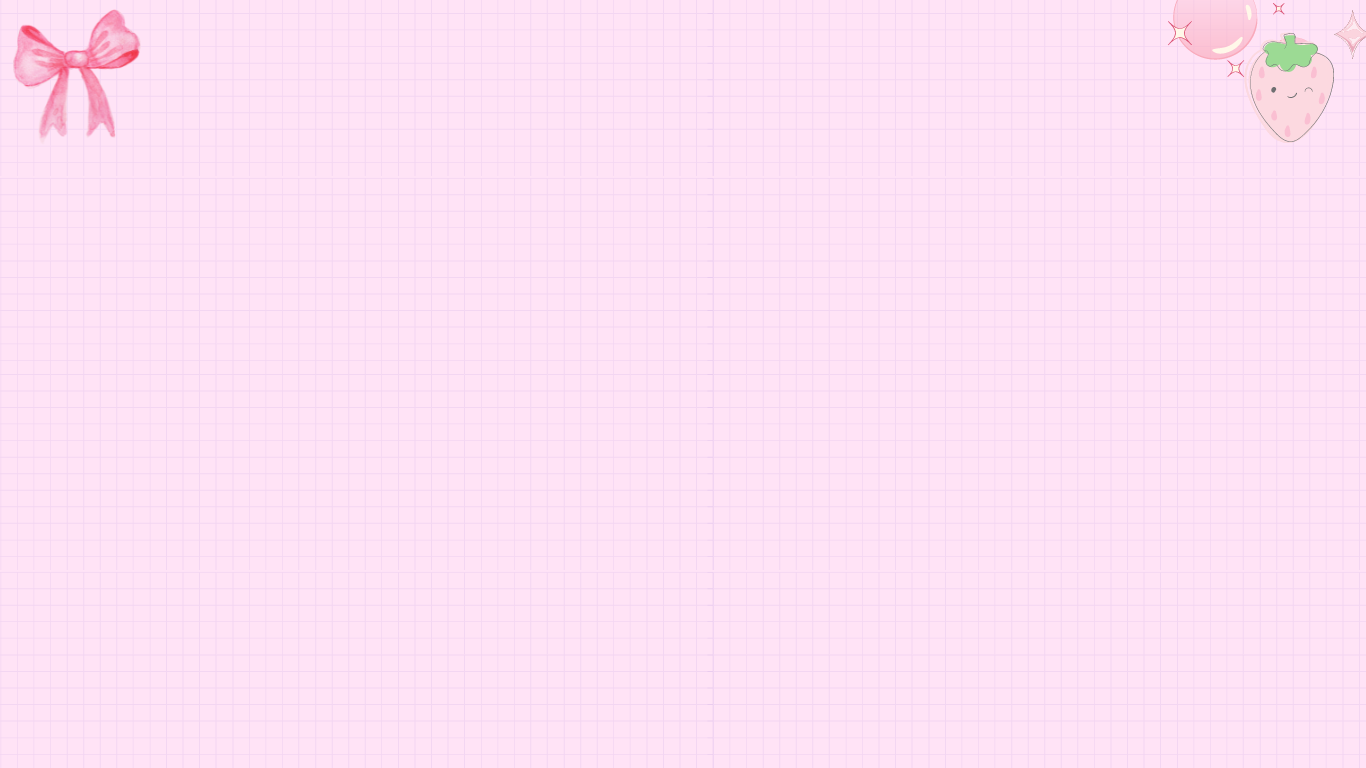
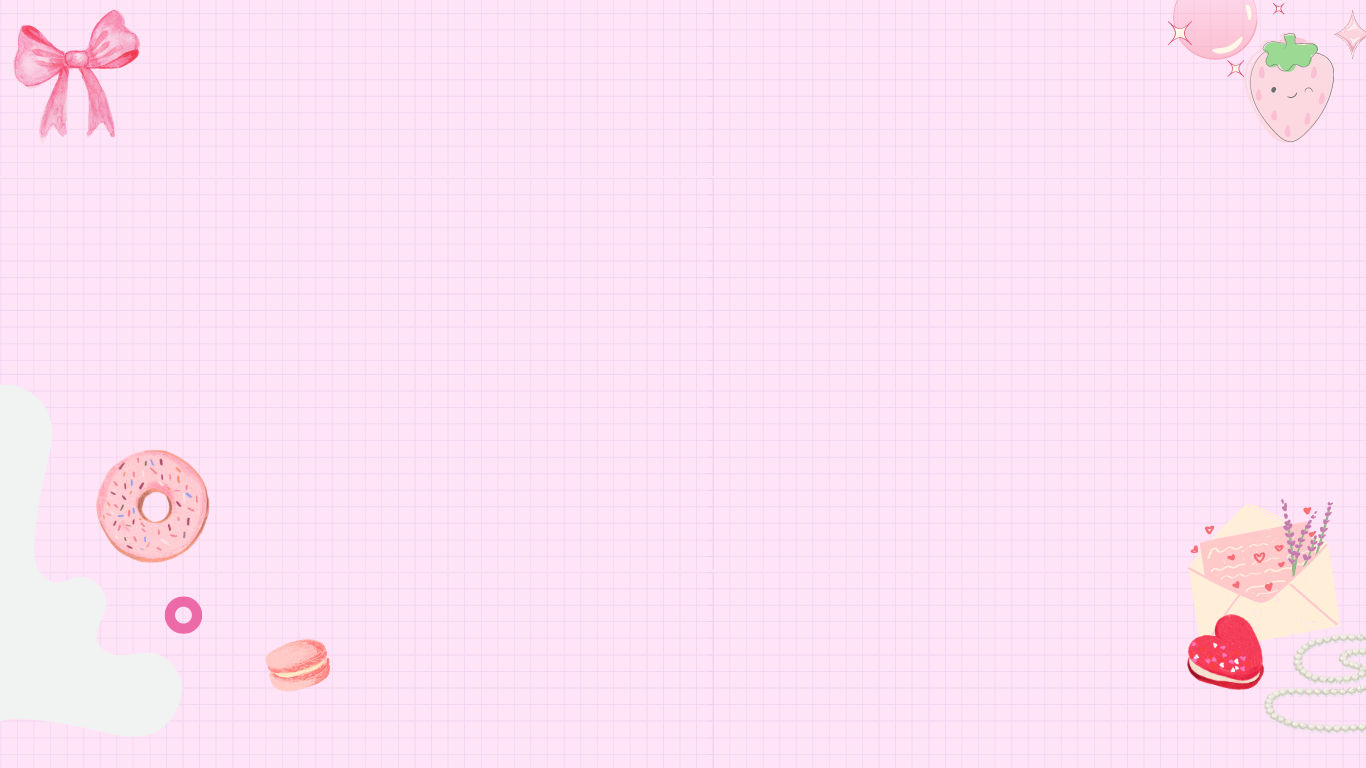
Setting bg images

diff --git a/assets/styles/main.css b/assets/styles/main.css
@@ -224,9 +224,9 @@
 .hero-section {
   padding-left: var(--padding-size);
   padding-right: var(--padding-size);
-  height: 100vh;
-  padding-top: 150px;
-  background-image: url("../images/4.png");
+  height: 115vh;
+  padding-top: 120px;
+  background-image: url("../images/hero-bg.png");
   background-size: cover;
   display: flex;
   justify-content: space-between;
@@ -280,8 +280,10 @@
 }
 
 .projects-section {
-  padding: 100px var(--padding-size);
-  background-image: url("../images/5.png");
+  padding-left: var(--padding-size);
+  padding-right: var(--padding-size);
+  padding-bottom: 80px;
+  background-image: url("../images/projects-bg.png");
 }
 .projects-section h3 {
   text-transform: uppercase;
@@ -301,8 +303,8 @@
 }
 
 .footer {
-  background-image: url(../images/5.png);
-  background-position: bottom;
+  background-image: url(../images/footer-bg.jpg);
+  background-position: center;
   padding: 0 var(--padding-size);
 }
 .footer .footer-top {
@@ -395,10 +397,6 @@
   list-style: none;
 }
 
-body {
-  background-color: rgb(255, 227, 246);
-  background-image: url("../images/body-bg.png");
-}
 body .body-content {
   position: relative;
   overflow: hidden;

diff --git a/assets/styles/_sectionprojects.scss b/assets/styles/_sectionprojects.scss
@@ -26,13 +26,14 @@
 }
 .swiper-pagination-bullet-active {
     background-color: rgb(251, 111, 178);
-    //background-color: rgb(223, 64, 238);
 }
 
 
 .projects-section{
-    padding: 100px var(--padding-size);
-    background-image: url('../images/5.png');
+    padding-left: var(--padding-size);
+    padding-right: var(--padding-size);
+    padding-bottom: 80px;
+    background-image: url('../images/projects-bg.png');
     h3{
         text-transform: uppercase;
         padding-bottom: 100px;

diff --git a/assets/styles/_sectionhero.scss b/assets/styles/_sectionhero.scss
@@ -1,9 +1,9 @@
 .hero-section{
     padding-left: var(--padding-size);
     padding-right: var(--padding-size);
-    height: 100vh;
-    padding-top: 150px;
-    background-image: url('../images/4.png');
+    height: 115vh;
+    padding-top: 120px;
+    background-image: url('../images/hero-bg.png');
     background-size: cover;
     display: flex;
     justify-content: space-between;

diff --git a/assets/styles/_footer.scss b/assets/styles/_footer.scss
@@ -1,6 +1,6 @@
 .footer{
-    background-image: url(../images/5.png);
-    background-position: bottom;
+    background-image: url(../images/footer-bg.jpg);
+    background-position: center;
     padding: 0 var(--padding-size);
     .footer-top{
         padding-top: 40px;

diff --git a/assets/styles/main.scss b/assets/styles/main.scss
@@ -11,8 +11,6 @@
     list-style: none;
 }
 body{
-    background-color: rgb(255, 227, 246);
-    background-image: url('../images/body-bg.png');
     .body-content{
         position: relative;
         overflow: hidden;
